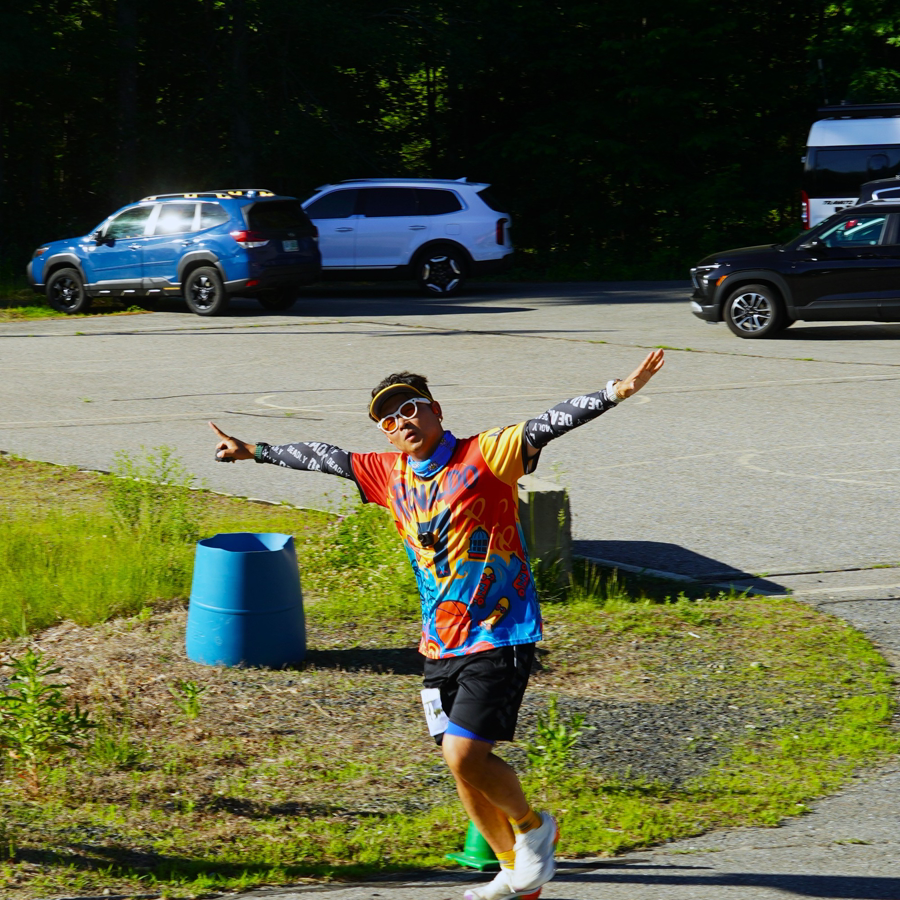
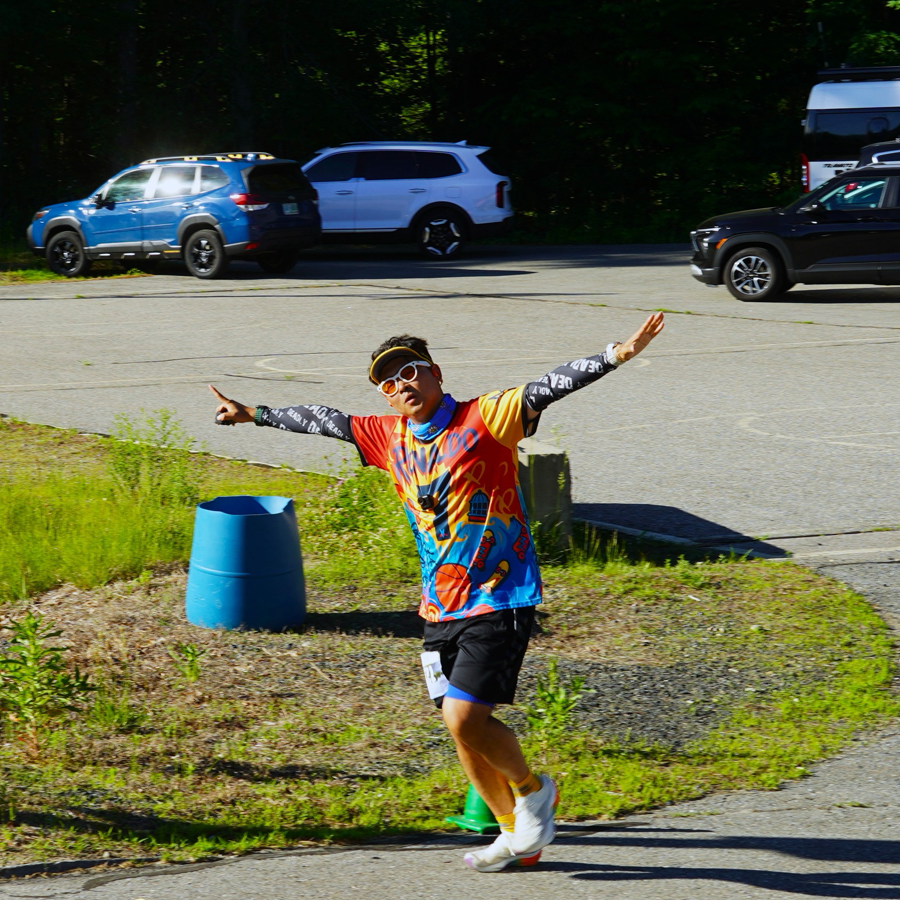
Crop all Maine GIF frames square and include day-five 5K

diff --git a/run50/wechat-new/maine-sanford-marathon-d-rail.html b/run50/wechat-new/maine-sanford-marathon-d-rail.html
@@ -18,7 +18,7 @@ html[data-theme="dark"] .ending{border-color:#444}html[data-theme="dark"] .copy-
 
 main{padding-left:20px;padding-right:20px}.cover,.intro,.chapter{margin-left:0;margin-right:0}</style></head><body><nav class="copy-tools"><a href="/CN/" style="color:inherit">全部中文文章</a><a href="/run50/wechat-new/maine-sanford-marathon-d-rail-original.html" style="color:inherit">原版赛道风</a><button data-theme-choice="light" aria-pressed="true" type="button">白底</button><button data-theme-choice="dark" aria-pressed="false" type="button">黑底</button><button id="copy-wechat" type="button">一键复制到公众号</button><span id="copy-status" role="status" aria-live="polite"></span></nav><main data-edition="maine-editorial"><header class="masthead"><h1>Run50 第35州｜缅因：桑福德马拉松｜新英格兰六连赛第5天5K与第6天全马</h1><p class="byline">文字 / Arsenan</p></header>
 <picture class="brand-intro"><source media="(prefers-reduced-motion: reduce)" srcset="/assets/run50-robot-intro-compact-still.png"><img src="/assets/run50-robot-intro-compact.gif" alt="Run50 机器人片头" width="224" height="300"></picture>
-<figure class="cover"><picture><source media="(prefers-reduced-motion: reduce)" srcset="/assets/maine-editorial/hero-still.png"><img src="/assets/maine-editorial/hero.gif?v=me-square-1" alt="缅因：跑步、合影与系列赛奖牌" width="900" height="900"></picture><figcaption class="hero-credit">赛道人物照 / Siqi · 其他照片署名见正文</figcaption></figure>
+<figure class="cover"><picture><source media="(prefers-reduced-motion: reduce)" srcset="/assets/maine-editorial/hero-still.png"><img src="/assets/maine-editorial/hero.gif?v=me-square-5k-3" alt="缅因：跑步、合影与系列赛奖牌" width="900" height="900"></picture><figcaption class="hero-credit">赛道人物照 / Siqi · 其他照片署名见正文</figcaption></figure>
 <div class="down" aria-hidden="true">⌄<br>⌄<br>⌄</div><section class="intro"><p>第五天在新罕布什尔跑5K，第六天到缅因完成全马。六天四场全马、两场5K，新英格兰之行收官。</p></section>
 <figure class="photo-strip map-poster" style="margin:32px 0 36px"><img src="/assets/maine-editorial/map.jpg?v=pine-pointer-1" alt="第35州缅因，星标桑福德" style="display:block;width:100%;height:auto;margin:0"><img src="/assets/maine-editorial/poster.jpg" alt="2026 缅因 桑福德 RUN50 35" style="display:block;width:100%;height:auto;margin:0"><figcaption style="margin:10px 0 0;text-align:center;font-size:12px;line-height:1.8;color:#888">第35州 · 缅因，星标为桑福德｜制图 / Arsenan<br>2026 · Sanford · New England Series Day 6</figcaption></figure>
 <header class="chapter"><span class="chapter-number">01</span><p class="chapter-label">前言</p><h2>第五天：新罕布什尔，最后一个 5 公里</h2></header>

diff --git a/run50/wechat/maine-sanford-marathon-editorial.html b/run50/wechat/maine-sanford-marathon-editorial.html
@@ -18,7 +18,7 @@ html[data-theme="dark"] .ending{border-color:#444}html[data-theme="dark"] .copy-
 
 main{padding-left:20px;padding-right:20px}.cover,.intro,.chapter{margin-left:0;margin-right:0}</style></head><body><nav class="copy-tools"><a href="/CN/" style="color:inherit">全部中文文章</a><a href="/run50/wechat-new/maine-sanford-marathon-d-rail-original.html" style="color:inherit">原版赛道风</a><button data-theme-choice="light" aria-pressed="true" type="button">白底</button><button data-theme-choice="dark" aria-pressed="false" type="button">黑底</button><button id="copy-wechat" type="button">一键复制到公众号</button><span id="copy-status" role="status" aria-live="polite"></span></nav><main data-edition="maine-editorial"><header class="masthead"><h1>Run50 第35州｜缅因：桑福德马拉松｜新英格兰六连赛第5天5K与第6天全马</h1><p class="byline">文字 / Arsenan</p></header>
 <picture class="brand-intro"><source media="(prefers-reduced-motion: reduce)" srcset="/assets/run50-robot-intro-compact-still.png"><img src="/assets/run50-robot-intro-compact.gif" alt="Run50 机器人片头" width="224" height="300"></picture>
-<figure class="cover"><picture><source media="(prefers-reduced-motion: reduce)" srcset="/assets/maine-editorial/hero-still.png"><img src="/assets/maine-editorial/hero.gif?v=me-square-1" alt="缅因：跑步、合影与系列赛奖牌" width="900" height="900"></picture><figcaption class="hero-credit">赛道人物照 / Siqi · 其他照片署名见正文</figcaption></figure>
+<figure class="cover"><picture><source media="(prefers-reduced-motion: reduce)" srcset="/assets/maine-editorial/hero-still.png"><img src="/assets/maine-editorial/hero.gif?v=me-square-5k-3" alt="缅因：跑步、合影与系列赛奖牌" width="900" height="900"></picture><figcaption class="hero-credit">赛道人物照 / Siqi · 其他照片署名见正文</figcaption></figure>
 <div class="down" aria-hidden="true">⌄<br>⌄<br>⌄</div><section class="intro"><p>第五天在新罕布什尔跑5K，第六天到缅因完成全马。六天四场全马、两场5K，新英格兰之行收官。</p></section>
 <figure class="photo-strip map-poster" style="margin:32px 0 36px"><img src="/assets/maine-editorial/map.jpg?v=pine-pointer-1" alt="第35州缅因，星标桑福德" style="display:block;width:100%;height:auto;margin:0"><img src="/assets/maine-editorial/poster.jpg" alt="2026 缅因 桑福德 RUN50 35" style="display:block;width:100%;height:auto;margin:0"><figcaption style="margin:10px 0 0;text-align:center;font-size:12px;line-height:1.8;color:#888">第35州 · 缅因，星标为桑福德｜制图 / Arsenan<br>2026 · Sanford · New England Series Day 6</figcaption></figure>
 <header class="chapter"><span class="chapter-number">01</span><p class="chapter-label">前言</p><h2>第五天：新罕布什尔，最后一个 5 公里</h2></header>

diff --git a/tools/build_wechat_maine_editorial.py b/tools/build_wechat_maine_editorial.py
@@ -7,7 +7,7 @@ SLUG='maine-sanford-marathon'
 def render():
  d=json.loads((ROOT/'tools/data/maine-editorial.json').read_text(encoding='utf-8'));css=re.search(r'<style>(.*?)</style>',template.render(),re.S).group(1)
  css+='\nmain{padding-left:20px;padding-right:20px}.cover,.intro,.chapter{margin-left:0;margin-right:0}'
- body=[f'<header class="masthead"><h1>{escape(d["title"])}</h1><p class="byline">文字 / Arsenan</p></header>','<picture class="brand-intro"><source media="(prefers-reduced-motion: reduce)" srcset="/assets/run50-robot-intro-compact-still.png"><img src="/assets/run50-robot-intro-compact.gif" alt="Run50 机器人片头" width="224" height="300"></picture>','<figure class="cover"><picture><source media="(prefers-reduced-motion: reduce)" srcset="/assets/maine-editorial/hero-still.png"><img src="/assets/maine-editorial/hero.gif?v=me-square-1" alt="缅因：跑步、合影与系列赛奖牌" width="900" height="900"></picture><figcaption class="hero-credit">赛道人物照 / Siqi · 其他照片署名见正文</figcaption></figure>','<div class="down" aria-hidden="true">⌄<br>⌄<br>⌄</div><section class="intro"><p>第五天在新罕布什尔跑5K，第六天到缅因完成全马。六天四场全马、两场5K，新英格兰之行收官。</p></section>','<figure class="photo-strip map-poster" style="margin:32px 0 36px"><img src="/assets/maine-editorial/map.jpg?v=pine-pointer-1" alt="第35州缅因，星标桑福德" style="display:block;width:100%;height:auto;margin:0"><img src="/assets/maine-editorial/poster.jpg" alt="2026 缅因 桑福德 RUN50 35" style="display:block;width:100%;height:auto;margin:0"><figcaption style="margin:10px 0 0;text-align:center;font-size:12px;line-height:1.8;color:#888">第35州 · 缅因，星标为桑福德｜制图 / Arsenan<br>2026 · Sanford · New England Series Day 6</figcaption></figure>']
+ body=[f'<header class="masthead"><h1>{escape(d["title"])}</h1><p class="byline">文字 / Arsenan</p></header>','<picture class="brand-intro"><source media="(prefers-reduced-motion: reduce)" srcset="/assets/run50-robot-intro-compact-still.png"><img src="/assets/run50-robot-intro-compact.gif" alt="Run50 机器人片头" width="224" height="300"></picture>','<figure class="cover"><picture><source media="(prefers-reduced-motion: reduce)" srcset="/assets/maine-editorial/hero-still.png"><img src="/assets/maine-editorial/hero.gif?v=me-square-5k-3" alt="缅因：跑步、合影与系列赛奖牌" width="900" height="900"></picture><figcaption class="hero-credit">赛道人物照 / Siqi · 其他照片署名见正文</figcaption></figure>','<div class="down" aria-hidden="true">⌄<br>⌄<br>⌄</div><section class="intro"><p>第五天在新罕布什尔跑5K，第六天到缅因完成全马。六天四场全马、两场5K，新英格兰之行收官。</p></section>','<figure class="photo-strip map-poster" style="margin:32px 0 36px"><img src="/assets/maine-editorial/map.jpg?v=pine-pointer-1" alt="第35州缅因，星标桑福德" style="display:block;width:100%;height:auto;margin:0"><img src="/assets/maine-editorial/poster.jpg" alt="2026 缅因 桑福德 RUN50 35" style="display:block;width:100%;height:auto;margin:0"><figcaption style="margin:10px 0 0;text-align:center;font-size:12px;line-height:1.8;color:#888">第35州 · 缅因，星标为桑福德｜制图 / Arsenan<br>2026 · Sanford · New England Series Day 6</figcaption></figure>']
  for block in d["blocks"]:
   if block["kind"] == "figure":
    assert all(Path(im["src"]).stem in d["allowed_photo_stems"] for im in block["images"]), "Only curated folder photos are allowed"

diff --git a/tools/build_wechat_maine_hero.py b/tools/build_wechat_maine_hero.py
@@ -2,9 +2,11 @@ from pathlib import Path
 import subprocess,tempfile
 r=Path.cwd()
 with tempfile.TemporaryDirectory() as td:
- for i,key in enumerate(['ME-33-2','ME-47','ME-41-1','ME-37-1','ME-44']):
-  vf='scale=900:900:force_original_aspect_ratio=increase,crop=900:900:0:0' if key in ['ME-33-2','ME-37-1'] else 'scale=900:900:force_original_aspect_ratio=increase,crop=900:900'
-  if key in ['ME-41-1','ME-44','ME-47']:vf='scale=900:900:force_original_aspect_ratio=decrease,pad=900:900:(ow-iw)/2:(oh-ih)/2:color=0xf5f1e6'
+ for i,key in enumerate(['ME-33-2','ME-08','ME-47','ME-41-1','ME-37-1','ME-44']):
+  # Every frame is a real square crop, with no padded borders.
+  vf='scale=900:900:force_original_aspect_ratio=increase,crop=900:900'
+  if key=='ME-37-1':vf='scale=900:900:force_original_aspect_ratio=increase,crop=900:900:0:ih-900'
+  if key=='ME-47':vf='crop=1589:1589:140:0,scale=900:900'
   subprocess.run(['ffmpeg','-y','-loglevel','error','-i',str(r/f'assets/maine-editorial/{key}.jpg'),'-vf',vf,'-frames:v','1',str(Path(td)/f'{i:02}.png')],check=True)
  from shutil import copyfile
  copyfile(Path(td)/'00.png',r/'assets/maine-editorial/hero-still.png')
